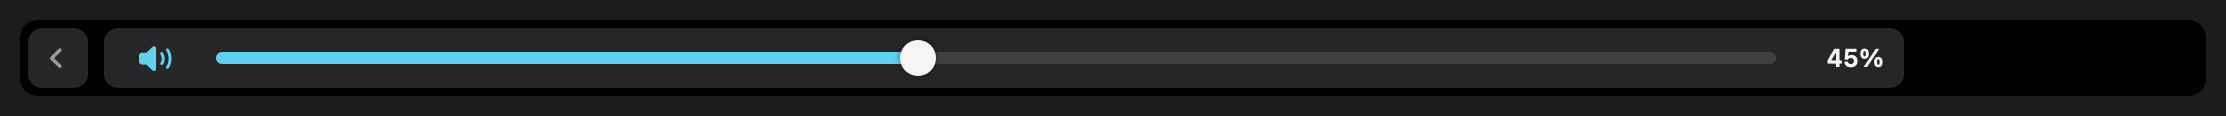
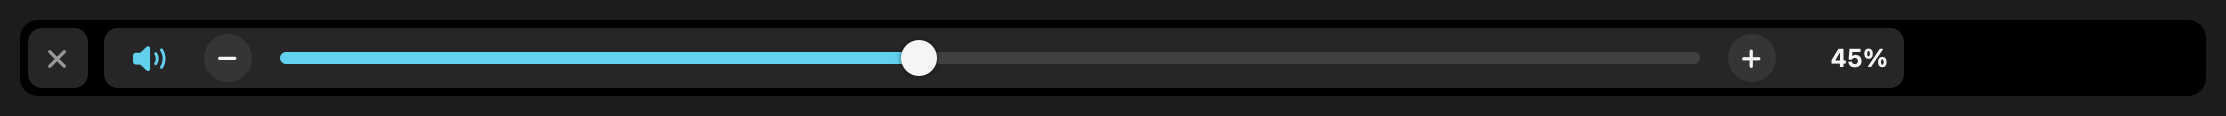
Slider: tombol − dan + (tahan untuk berulang), tutup dengan ×

Changed region(s): [[0.7439, 0.4138, 0.8679, 0.5948], [0.062, 0.4138, 0.124, 0.5948], [0.0, 0.4397, 0.031, 0.5948]]

diff --git a/Sources/Bilah/Widgets/ControlsWidget.swift b/Sources/Bilah/Widgets/ControlsWidget.swift
@@ -328,13 +328,20 @@ final class ShortcutPanelView: WidgetView {
 
 // MARK: - Slider besar
 
-/// Slider yang menggantikan dashboard sementara. Geser di mana saja di jalurnya; ketuk ikon untuk bisu (volume).
+/// Slider yang menggantikan dashboard sementara: [ikon] [−] [jalur] [+] [nilai].
+/// Geser di jalur untuk langsung ke nilai; ketuk −/+ untuk naik-turun 1/16 (tahan = berulang);
+/// ketuk ikon speaker untuk bisu.
 final class SliderView: WidgetView {
+    private enum Part { case icon, minus, plus, track }
+
+    static let step: CGFloat = 1.0 / 16
+
     let kind: SliderKind
     var value: CGFloat = 0 { didSet { needsDisplay = true } }
     var muted = false { didSet { needsDisplay = true } }
     private(set) var isTracking = false
-    private var iconPressed = false
+    private var pressed: Part?
+    private var repeatTimer: Timer?
 
     var onChange: ((CGFloat) -> Void)?
     var onIconTap: (() -> Void)?
@@ -350,8 +357,21 @@ final class SliderView: WidgetView {
 
     required init?(coder: NSCoder) { fatalError() }
 
-    private var iconZone: CGFloat { 46 }
-    private var track: NSRect { NSRect(x: 56, y: bounds.midY - 3, width: bounds.width - 56 - 64, height: 6) }
+    // Tata letak (x): ikon 0–44 · − 44–80 · jalur · + (80 pt sebelum kanan) · nilai 58 pt terakhir.
+    private var iconCenter: NSPoint { NSPoint(x: 23, y: bounds.midY) }
+    private var minusCenter: NSPoint { NSPoint(x: 62, y: bounds.midY) }
+    private var plusCenter: NSPoint { NSPoint(x: bounds.width - 76, y: bounds.midY) }
+    private var track: NSRect {
+        let x0 = minusCenter.x + 26, x1 = plusCenter.x - 26
+        return NSRect(x: x0, y: bounds.midY - 3, width: max(10, x1 - x0), height: 6)
+    }
+
+    private func part(at p: NSPoint) -> Part {
+        if p.x < 44 { return .icon }
+        if p.x < minusCenter.x + 18 { return .minus }
+        if p.x > plusCenter.x - 18 { return .plus }
+        return .track
+    }
 
     override func touchesBegan(with event: NSEvent) {
         guard let t = event.touches(matching: .began, in: self).first else { return }
@@ -371,13 +391,26 @@ final class SliderView: WidgetView {
 
     private func begin(_ p: NSPoint) {
         onInteract?()
-        if p.x < iconZone {
-            iconPressed = true
-            needsDisplay = true
-        } else {
+        let hit = part(at: p)
+        pressed = hit
+        switch hit {
+        case .icon:
+            break
+        case .minus, .plus:
+            let delta = hit == .plus ? Self.step : -Self.step
+            nudge(delta)
+            // Tahan: setelah 0,4 detik, ulangi tiap 0,12 detik.
+            repeatTimer = Self.commonTimer(0.4, repeats: false) { [weak self] in
+                self?.repeatTimer = Self.commonTimer(0.12, repeats: true) { [weak self] in
+                    self?.nudge(delta)
+                    self?.onInteract?()
+                }
+            }
+        case .track:
             isTracking = true
             update(p)
         }
+        needsDisplay = true
     }
 
     private func move(_ p: NSPoint) {
@@ -387,27 +420,48 @@ final class SliderView: WidgetView {
     }
 
     private func end(cancelled: Bool) {
-        if iconPressed {
-            iconPressed = false
-            if !cancelled { onIconTap?() }
-        }
+        repeatTimer?.invalidate()
+        repeatTimer = nil
+        if pressed == .icon, !cancelled { onIconTap?() }
+        pressed = nil
         isTracking = false
         needsDisplay = true
         onInteract?()
     }
 
+    /// Timer di mode .common supaya tetap jalan selama macOS melacak sentuhan.
+    private static func commonTimer(_ interval: TimeInterval, repeats: Bool, _ body: @escaping () -> Void) -> Timer {
+        let t = Timer(timeInterval: interval, repeats: repeats) { _ in body() }
+        RunLoop.main.add(t, forMode: .common)
+        return t
+    }
+
+    /// Naik/turun satu langkah, dibulatkan ke kelipatan 1/16 seperti tombol keyboard Mac.
+    private func nudge(_ delta: CGFloat) {
+        let v = min(1, max(0, ((value + delta) / Self.step).rounded() * Self.step))
+        set(v)
+    }
+
     private func update(_ p: NSPoint) {
-        let v = min(1, max(0, (p.x - track.minX) / track.width))
+        set(min(1, max(0, (p.x - track.minX) / track.width)))
+    }
+
+    private func set(_ v: CGFloat) {
         value = v
         if kind == .volume, v > 0 { muted = false }
         onChange?(v)
     }
 
     override func drawContent(_ b: NSRect) {
-        let iconCenter = NSPoint(x: 26, y: b.midY)
-        if iconPressed { Draw.circle(iconCenter, 13, Theme.pillPressed) }
+        if pressed == .icon { Draw.circle(iconCenter, 13, Theme.pillPressed) }
         Draw.symbol(kind.symbol(value: value, muted: muted), size: 14, weight: .semibold,
                     color: muted ? Theme.secondary : kind.tint, center: iconCenter)
+
+        for (part, center, symbol) in [(Part.minus, minusCenter, "minus"), (Part.plus, plusCenter, "plus")] {
+            let atLimit = part == .minus ? value <= 0 : value >= 1
+            Draw.circle(center, 12, pressed == part ? Theme.pillPressed : NSColor(white: 1, alpha: 0.07))
+            Draw.symbol(symbol, size: 11, weight: .bold, color: atLimit ? Theme.faint : Theme.text, center: center)
+        }
 
         let t = track
         Draw.roundedRect(t, radius: 3, fill: Theme.track)
@@ -425,7 +479,7 @@ final class SliderView: WidgetView {
         NSGraphicsContext.restoreGraphicsState()
 
         let label = muted ? "Bisu" : "\(Int((value * 100).rounded()))%"
-        Draw.centered(label, Theme.mono(12.5, .semibold), Theme.text, x: b.width - 58, width: 48, centerY: b.midY,
+        Draw.centered(label, Theme.mono(12.5, .semibold), Theme.text, x: b.width - 52, width: 44, centerY: b.midY,
                       align: .right)
     }
 }

diff --git a/Sources/Bilah/App/Snapshot.swift b/Sources/Bilah/App/Snapshot.swift
@@ -68,7 +68,7 @@ enum Snapshot {
         let sliderCanvas = Canvas(frame: canvas.frame)
         let slider = SliderView(kind: .volume, width: 900)
         slider.value = 0.45
-        layout([CloseView()], in: sliderCanvas, inset: inset, barWidth: barWidth)
+        layout([CloseView(symbol: "xmark")], in: sliderCanvas, inset: inset, barWidth: barWidth)
         slider.frame = NSRect(x: inset + 30 + 8, y: inset, width: slider.fixedWidth, height: Theme.height)
         sliderCanvas.addSubview(slider)
         let sliderPath = (path as NSString).deletingPathExtension + "-slider.png"
@@ -76,7 +76,7 @@ enum Snapshot {
 
         // Panel semua pintasan.
         let panelCanvas = Canvas(frame: canvas.frame)
-        layout([CloseView()], in: panelCanvas, inset: inset, barWidth: barWidth)
+        layout([CloseView(symbol: "xmark")], in: panelCanvas, inset: inset, barWidth: barWidth)
         let panel = ShortcutPanelView(actions: BuiltinAction.allCases.filter { $0 != .inputSource }.map { .builtin($0) },
                                       width: barWidth - 38)
         panel.states = demoStates

diff --git a/Sources/Bilah/Widgets/Widget.swift b/Sources/Bilah/Widgets/Widget.swift
@@ -76,12 +76,19 @@ extension Widget {
 }
 
 /// Tombol kecil di kiri untuk mengecilkan dashboard kembali ke Touch Bar biasa.
+/// Tombol kecil di kiri: "‹" mengecilkan dashboard, "×" menutup slider/panel.
 final class CloseView: WidgetView {
-    init() { super.init(width: 30) }
+    private let symbol: String
+
+    init(symbol: String = "chevron.left") {
+        self.symbol = symbol
+        super.init(width: 30)
+    }
+
     required init?(coder: NSCoder) { fatalError() }
 
     override func drawContent(_ b: NSRect) {
-        Draw.symbol("chevron.left", size: 11, weight: .bold, color: Theme.secondary, center: NSPoint(x: b.midX, y: b.midY))
+        Draw.symbol(symbol, size: 11, weight: .bold, color: Theme.secondary, center: NSPoint(x: b.midX, y: b.midY))
     }
 }
 

diff --git a/Sources/Bilah/TouchBar/DashboardController.swift b/Sources/Bilah/TouchBar/DashboardController.swift
@@ -221,7 +221,7 @@ final class DashboardController: NSObject, NSTouchBarDelegate, ObservableObject 
     func touchBar(_ touchBar: NSTouchBar, makeItemForIdentifier id: NSTouchBarItem.Identifier) -> NSTouchBarItem? {
         let item = NSCustomTouchBarItem(identifier: id)
         if id == Self.closeID || id == Self.overlayCloseID {
-            let v = CloseView()
+            let v = CloseView(symbol: id == Self.closeID ? "chevron.left" : "xmark")
             v.onTap = { [weak self] _ in id == Self.closeID ? self?.hide() : self?.closeOverlay() }
             item.view = v
             return item
